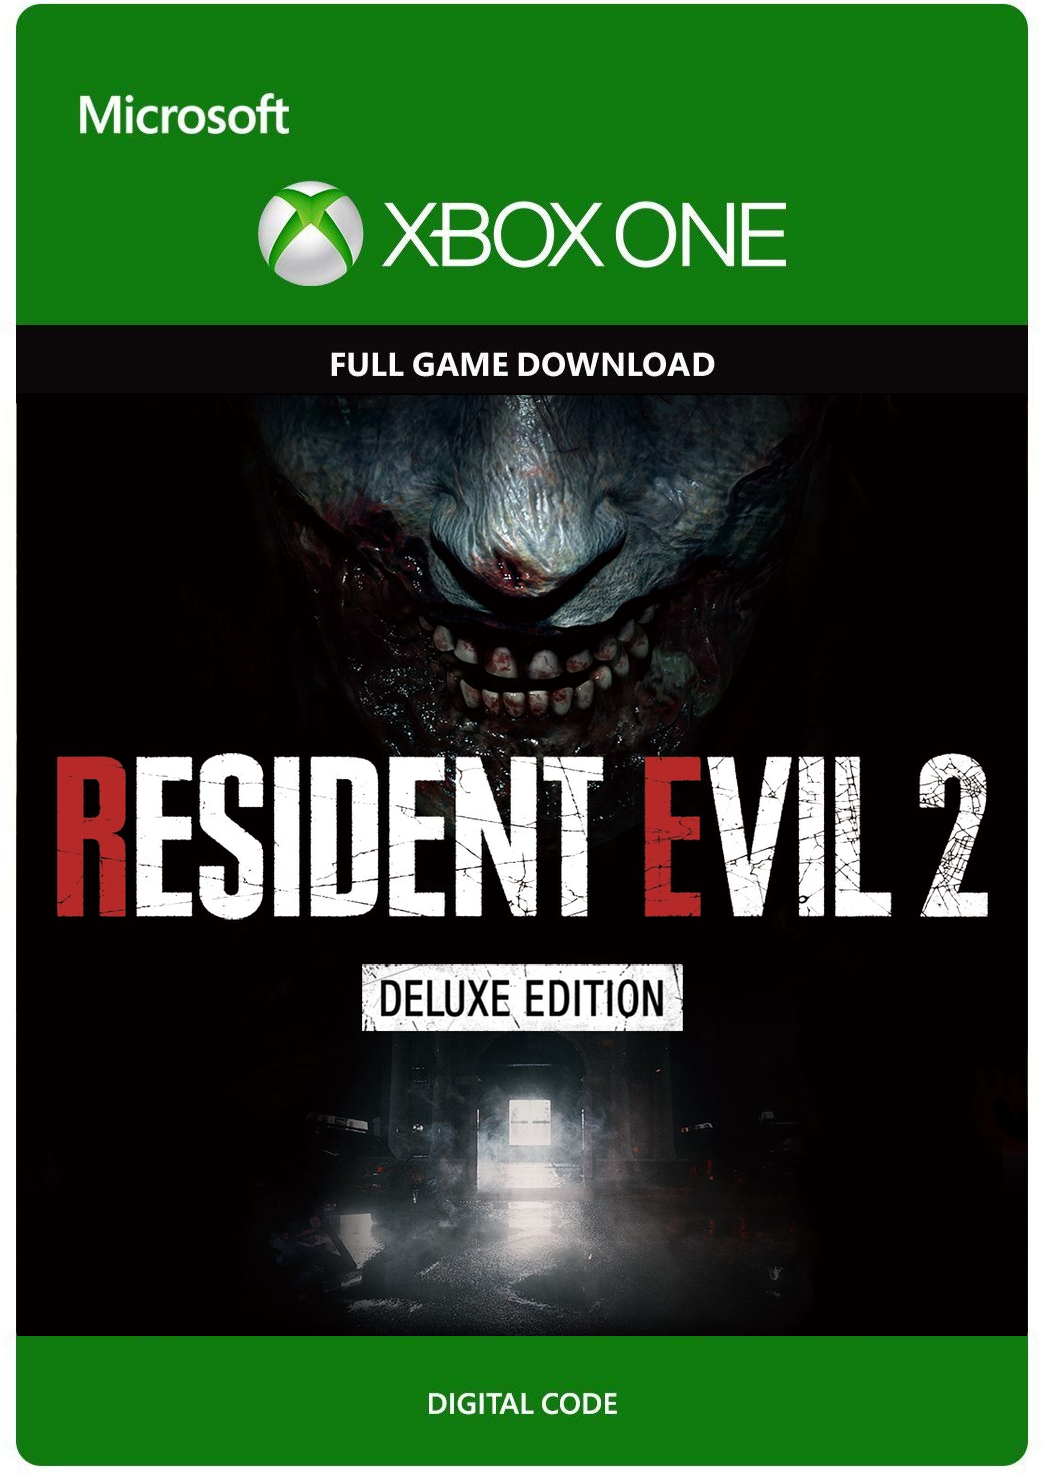
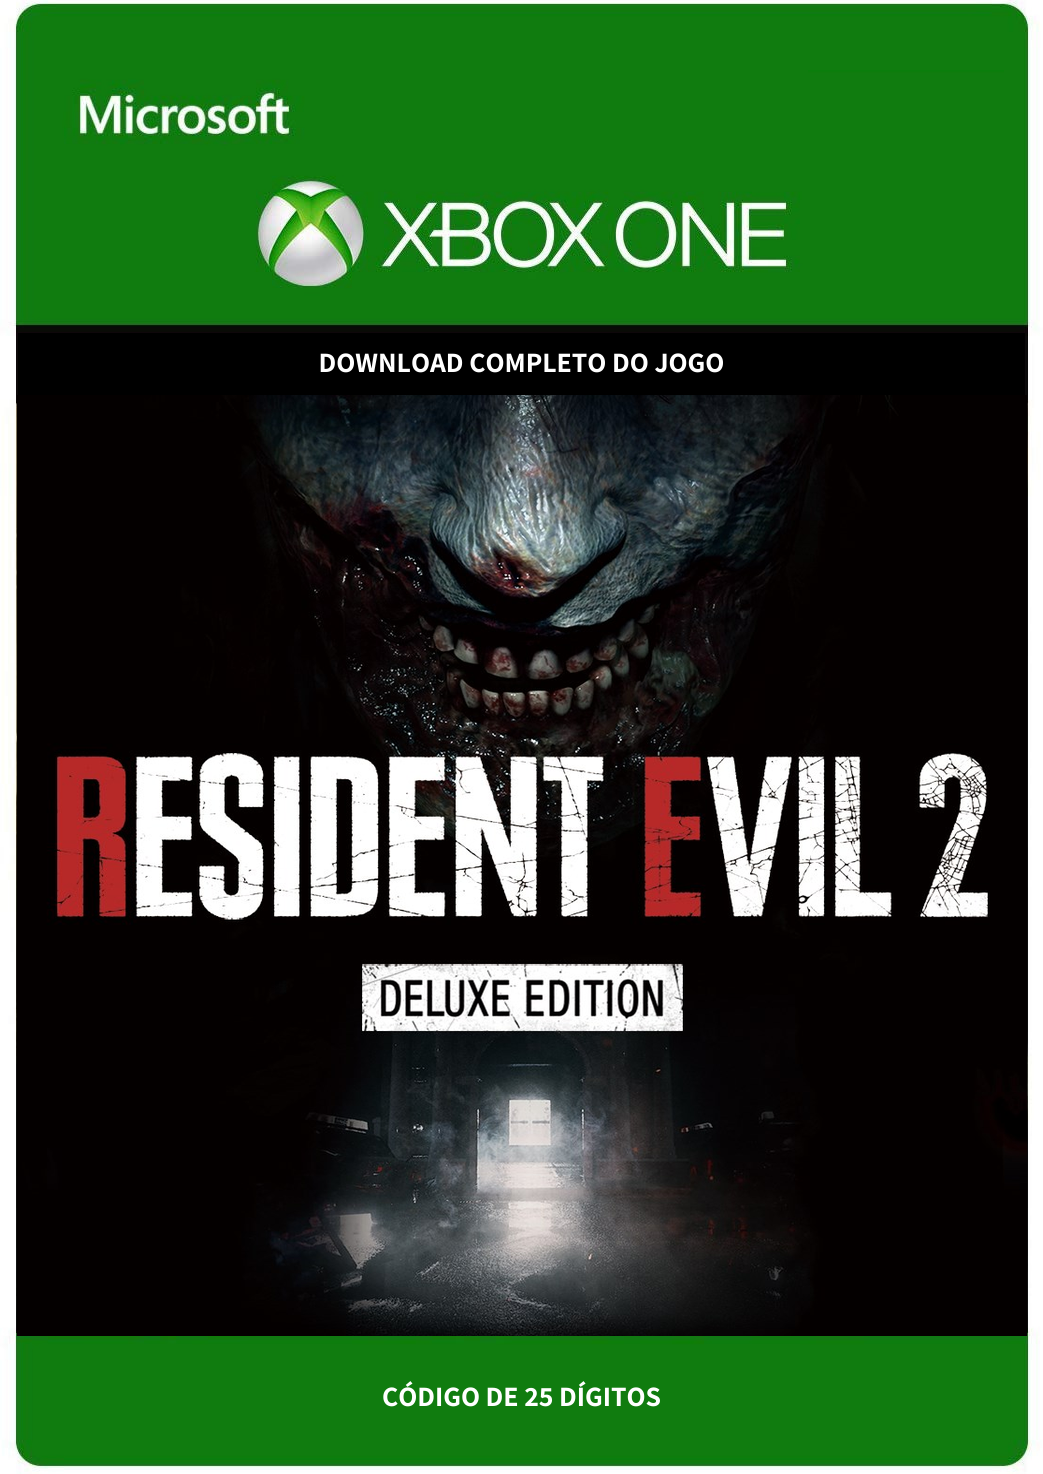
anuncio de jogo criado BZ271JBBZ9DC

Changed region(s): [[0.3068, 0.2185, 0.7057, 0.2809], [0.3682, 0.9362, 0.6443, 0.9674]]

diff --git a/description/BZ271JBBZ9DC.html b/description/BZ271JBBZ9DC.html
@@ -1,0 +1,74 @@
+<p style="font-family: 'Poppins', sans-serif; font-size: 1rem; color:gray">
+<iframe width="440" height="210" src="https://www.youtube.com/embed/sYHYv4KLLtc" title="YouTube video player" frameborder="0" allow="accelerometer; autoplay; clipboard-write; encrypted-media; gyroscope; picture-in-picture" allowfullscreen></iframe>
+<br><br>
+INFORMAÇÕES SOBRE O PRODUTO<br>
+===============================================<br>
+<br>
+Resident Evil 2 Deluxe Ed. (25 dígitos) Xbox One
+<br>Publicado por : CAPCOM CO., LTD.
+<br>Desenvolvido por : CAPCOM CO., LTD.
+<br>Data de lançamento : 25/01/2019
+<br>Tamanho aproximado : 301,06 MB
+<br>Classificação etária : Para maiores de 16 anos
+<br>Categoria : Ação e aventura
+<br>Recursos: HDR10, 4K Ultra HD, Xbox One X Aprimorado
+
+<br>A Edição de Luxo contém o jogo principal e o Pacote DLC extra que inclui os seguintes itens: 
+-Traje do Leon: "Xerife de Arklay" 
+-Traje do Leon: "Noir" 
+-Traje da Claire: "Militar" 
+-Traje da Claire: "Noir" 
+-Traje da Claire: "Elza Walker" 
+-Arma Deluxe: "Samurai Edge - Modelo do Albert" 
+-Troca de trilha sonora "Ver. original" 
+ 
+Um vírus maligno toma conta dos residentes de Raccoon City em setembro de 1998, afundando a cidade no caos enquanto zumbis comedores de carne humana vagam pelas ruas em busca de sobreviventes. 
+ 
+Um surto de adrenalina sem comparação, uma historia instigante e horrores inimagináveis o aguardam. 
+ 
+Presencie o retorno de Resident Evil 2.<br>
+<br>
+Fonte: Microsoft<br>
+<br>
+<br>
+- É um código de 25 dígitos único, exclusivo, nunca utilizado, que vai lhe dá o direito de resgatar o Jogo via Download;<br>
+- Após o resgate você pode instalar/desinstalar/reinstalar/jogar quantas vezes quiser e quando quiser;<br>
+- É um produto digital não é um disco físico, ou seja, não existe envio por correios;<br>
+- Quando finalizar o pagamento entre em contato via whatsapp com informações para confirmação do pagamento e recebimento do código do seu jogo;<br>
+- Após resgatar o Jogo ele fica registrado permanentemente em sua conta, não poderá ser transferido para outra pessoa;<br>
+- É preciso ter uma conta microsoft previamente criada e internet para fazer o resgate e download do Jogo;<br>
+- O Serviço da Xbox Live precisa estar ativo no momento do resgate, consulte antes;<br>
+- Jogos que tem multiplayer online você vai precisar ter assinatura Xbox Live Gold para jogar e isso é vendido separadamente;<br>
+- Jogos que não possuem multiplayer você vai poder jogar conectado ou desconectado da internet, sem se preocupar com banimento;<br>
+- Qualquer dúvida ou dificuldade nós forneceremos TODO o suporte necessário, nós ligamos pra você se você achar necessário;<br>
+<br>
+<br>
+PARA RESGATAR O CÓDIGO DE 25 DÍGITOS PELO NAVEGADOR<br>
+===============================================<br>
+<br>
+- Acesse o site de resgate de jogos da microsoft logado com a conta microsoft que deseja resgatar o Jogo;<br>
+- Digite o código de 25 dígitos no campo solicitado e clique em AVANÇAR;<br>
+- Será exibido uma imagem do Jogo e clicando em CONFIRMAR o Jogo é resgatado na sua conta;<br>
+<br>
+<br>
+PARA RESGATAR O CÓDIGO DE 25 DÍGITOS NO VIDEOGAME<br>
+===============================================<br>
+<br>
+- Acesse o videogame usando a conta microsoft que deseja resgatar o Jogo;<br>
+- Vá até STORE e clique no botão USAR UM CÓDIGO;<br>
+- Digite o código de 25 dígitos no campo solicitado e clique em AVANÇAR;<br>
+- Será exibido uma imagem do Jogo e clicando em CONFIRMAR o Jogo é resgatado na sua conta;<br>
+<br>
+<br>
+POLÍTICA DE DEVOLUÇÃO E REEMBOLSO<br>
+===============================================<br>
+<br>
+- Todos os códigos dos produtos que comercializamos são 100% digitais, originais, únicos e exclusivos. Isso nós garantimos pra você!;<br>
+- Nós não temos o poder de inutilizar o código em caso de desistência e qualquer pessoa que tenha ciência do código pode realizar o resgate do jogo;<br>
+- Por estes motivos nós não podemos realizar a devolução e nem reembolso de um produto digital;<br>
+- Antes de realizar a sua compra, nós recomendamos que tenha certeza de que o produto que esta comprando é o que realmente deseja;<br>
+- Recomendamos que antes de comprar consulte o video que disponibilizamos no anúncio, opinião de amigos ou opinião especializada;<br>
+- Realizando o pagamento via pix você concorda com todos os termos aqui descritos.<br>
+<br>
+<br>
+</p>

diff --git a/loja.html b/loja.html
@@ -290,14 +290,14 @@
                                 </div>
                             </div>
 
-                            <div class="col" style="display: none;">
+                            <div class="col">
                                 <div class="about-us-thumb wow fadeInUp" data-wow-delay="0.5s">
                                     <center>
-                                        <input type="hidden" id="CODIGO_[CODE]" value="[CODE]">
-                                        <img src="img/produtos/[CODE].png" alt="" width="200" height="100">
-                                        <h5 id="JOGO_[CODE]">[NAME]</h5>
-                                        <h6 id="VALOR_[CODE]"><span style="color:green">[VALOR]</span></h6>
-                                        <a href="#" id="comprar" class="btn fancy-btn fancy-dark" data-toggle="modal" data-target="#myModal" onclick="confirm(CODIGO_[CODE].value,JOGO_[CODE].innerText,VALOR_[CODE].innerText)">Comprar</a>
+                                        <input type="hidden" id="CODIGO_BZ271JBBZ9DC" value="BZ271JBBZ9DC">
+                                        <img src="img/produtos/BZ271JBBZ9DC.png" alt="" width="200" height="100">
+                                        <h5 id="JOGO_BZ271JBBZ9DC">Resident Evil 2 Deluxe Ed. (25 dígitos) Xbox One<br></h5>
+                                        <h6 id="VALOR_BZ271JBBZ9DC"><span style="color:green">R$ 239,00</span></h6>
+                                        <a href="#" id="comprar" class="btn fancy-btn fancy-dark" data-toggle="modal" data-target="#myModal" onclick="confirm(CODIGO_BZ271JBBZ9DC.value,JOGO_BZ271JBBZ9DC.innerText,VALOR_BZ271JBBZ9DC.innerText)">Comprar</a>
                                     </center>
                                 </div>
                             </div>
